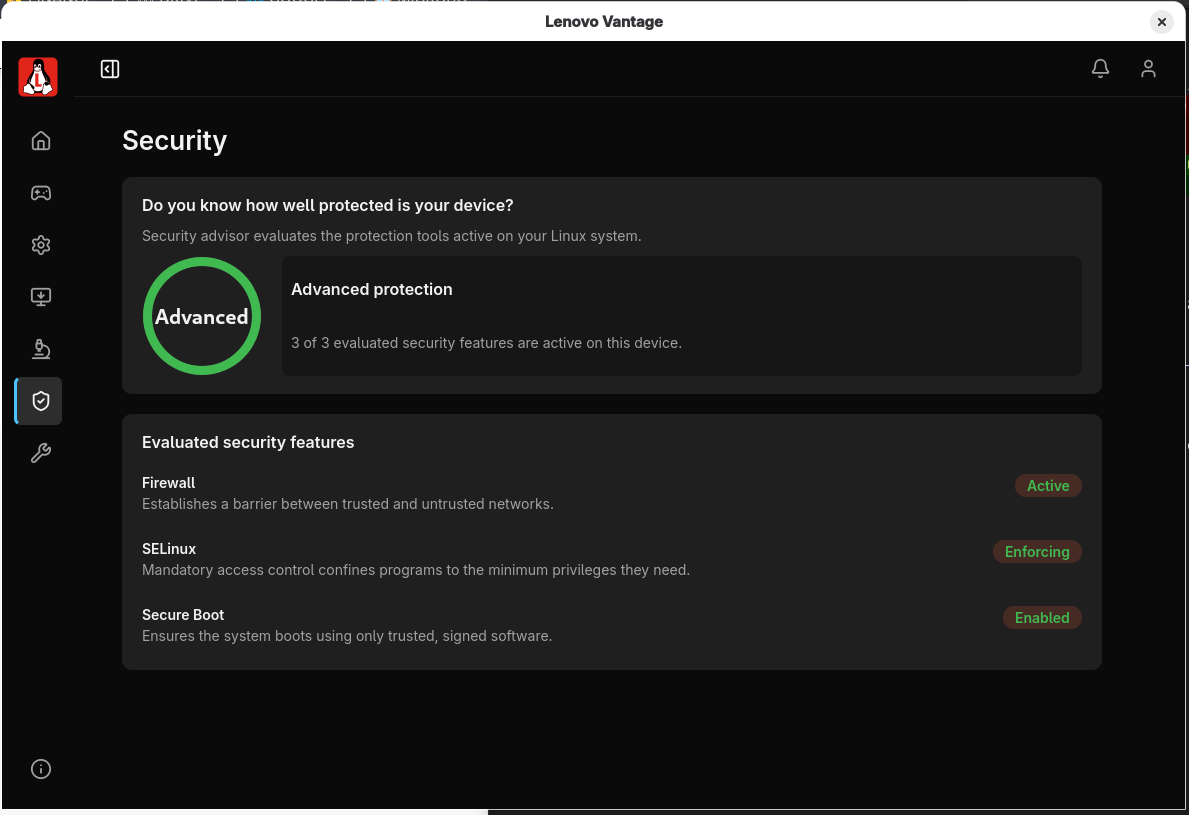
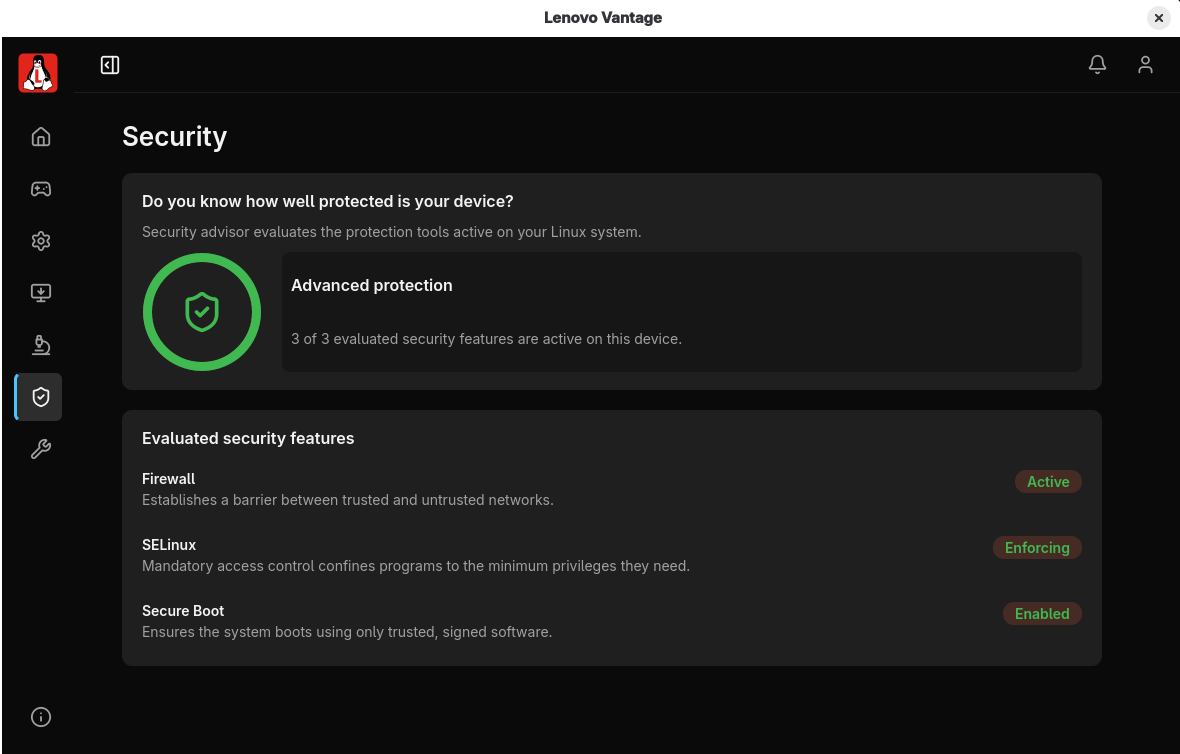
Add Rapid charge toggle (kernel charge_types Fast/Standard)
The Windows Vantage 'Rapid Charge' maps to the kernel power_supply
charge_types attribute ('Fast' = rapid). Add a capability-gated toggle on
the Power page; ON writes Fast, OFF writes Standard via pkexec.

diff --git a/vantage_gui/backend.py b/vantage_gui/backend.py
@@ -304,6 +304,32 @@ def set_fan_mode(index: int) -> bool:
     return _pkexec_write(f"{d}/fan_mode" if d else None, _FAN_IDX_TO_VAL.get(index, 1))
 
 
+# --- rapid charge (kernel power_supply charge_types) -----------------------
+def _charge_types_file() -> str | None:
+    for p in sorted(glob.glob("/sys/class/power_supply/BAT*/charge_types")):
+        return p
+    return None
+
+
+def rapid_charge() -> tuple[bool, bool]:
+    """(available, on) for fast charging via the kernel `charge_types` attribute.
+
+    The file reads like `Fast [Standard] Long_Life` — the bracketed token is the
+    active mode. "Fast" is the Linux equivalent of Vantage's Rapid Charge.
+    """
+    path = _charge_types_file()
+    raw = _read(path) if path else None
+    if not raw or "Fast" not in raw:
+        return (False, False)
+    m = re.search(r"\[(\w+)\]", raw)
+    return (True, (m.group(1) if m else "") == "Fast")
+
+
+def set_rapid_charge(on: bool) -> bool:
+    path = _charge_types_file()
+    return _pkexec_write(path, "Fast" if on else "Standard") if path else False
+
+
 # --- keyboard backlight (/sys/class/leds, when present) -------------------
 @dataclass
 class KbdBacklight:

diff --git a/vantage_gui/pages/device_settings.py b/vantage_gui/pages/device_settings.py
@@ -166,18 +166,30 @@ class DeviceSettingsPage(QWidget):
         st = backend.vpc()
         host, col = self._shell("Power")
 
-        # Conservation mode + fan/thermal mode — the headline VPC controls.
-        if st.has_conservation or st.has_fan_mode:
+        # Conservation / rapid charge / fan mode — the headline battery controls.
+        rc_avail, rc_on = backend.rapid_charge()
+        if st.has_conservation or st.has_fan_mode or rc_avail:
             settings = Card(title="Battery & thermal")
+            added = False
             if st.has_conservation:
                 settings.body.addWidget(ToggleRow(
                     "Conservation mode",
                     "Caps the battery charge near 60% to extend its lifespan when "
                     "the laptop is mostly plugged in.",
                     checked=st.conservation_mode, on_toggle=backend.set_conservation))
-            if st.has_conservation and st.has_fan_mode:
-                settings.body.addWidget(_hrule())
+                added = True
+            if rc_avail:
+                if added:
+                    settings.body.addWidget(_hrule())
+                settings.body.addWidget(ToggleRow(
+                    "Rapid charge",
+                    "Charge the battery at the fastest rate. Turn off to use the "
+                    "standard charge rate.",
+                    checked=rc_on, on_toggle=backend.set_rapid_charge))
+                added = True
             if st.has_fan_mode:
+                if added:
+                    settings.body.addWidget(_hrule())
                 settings.body.addWidget(_subhead("Fan mode"))
                 fan = SegmentedControl(backend.FAN_MODES, st.fan_mode)
                 fan.changed.connect(backend.set_fan_mode)